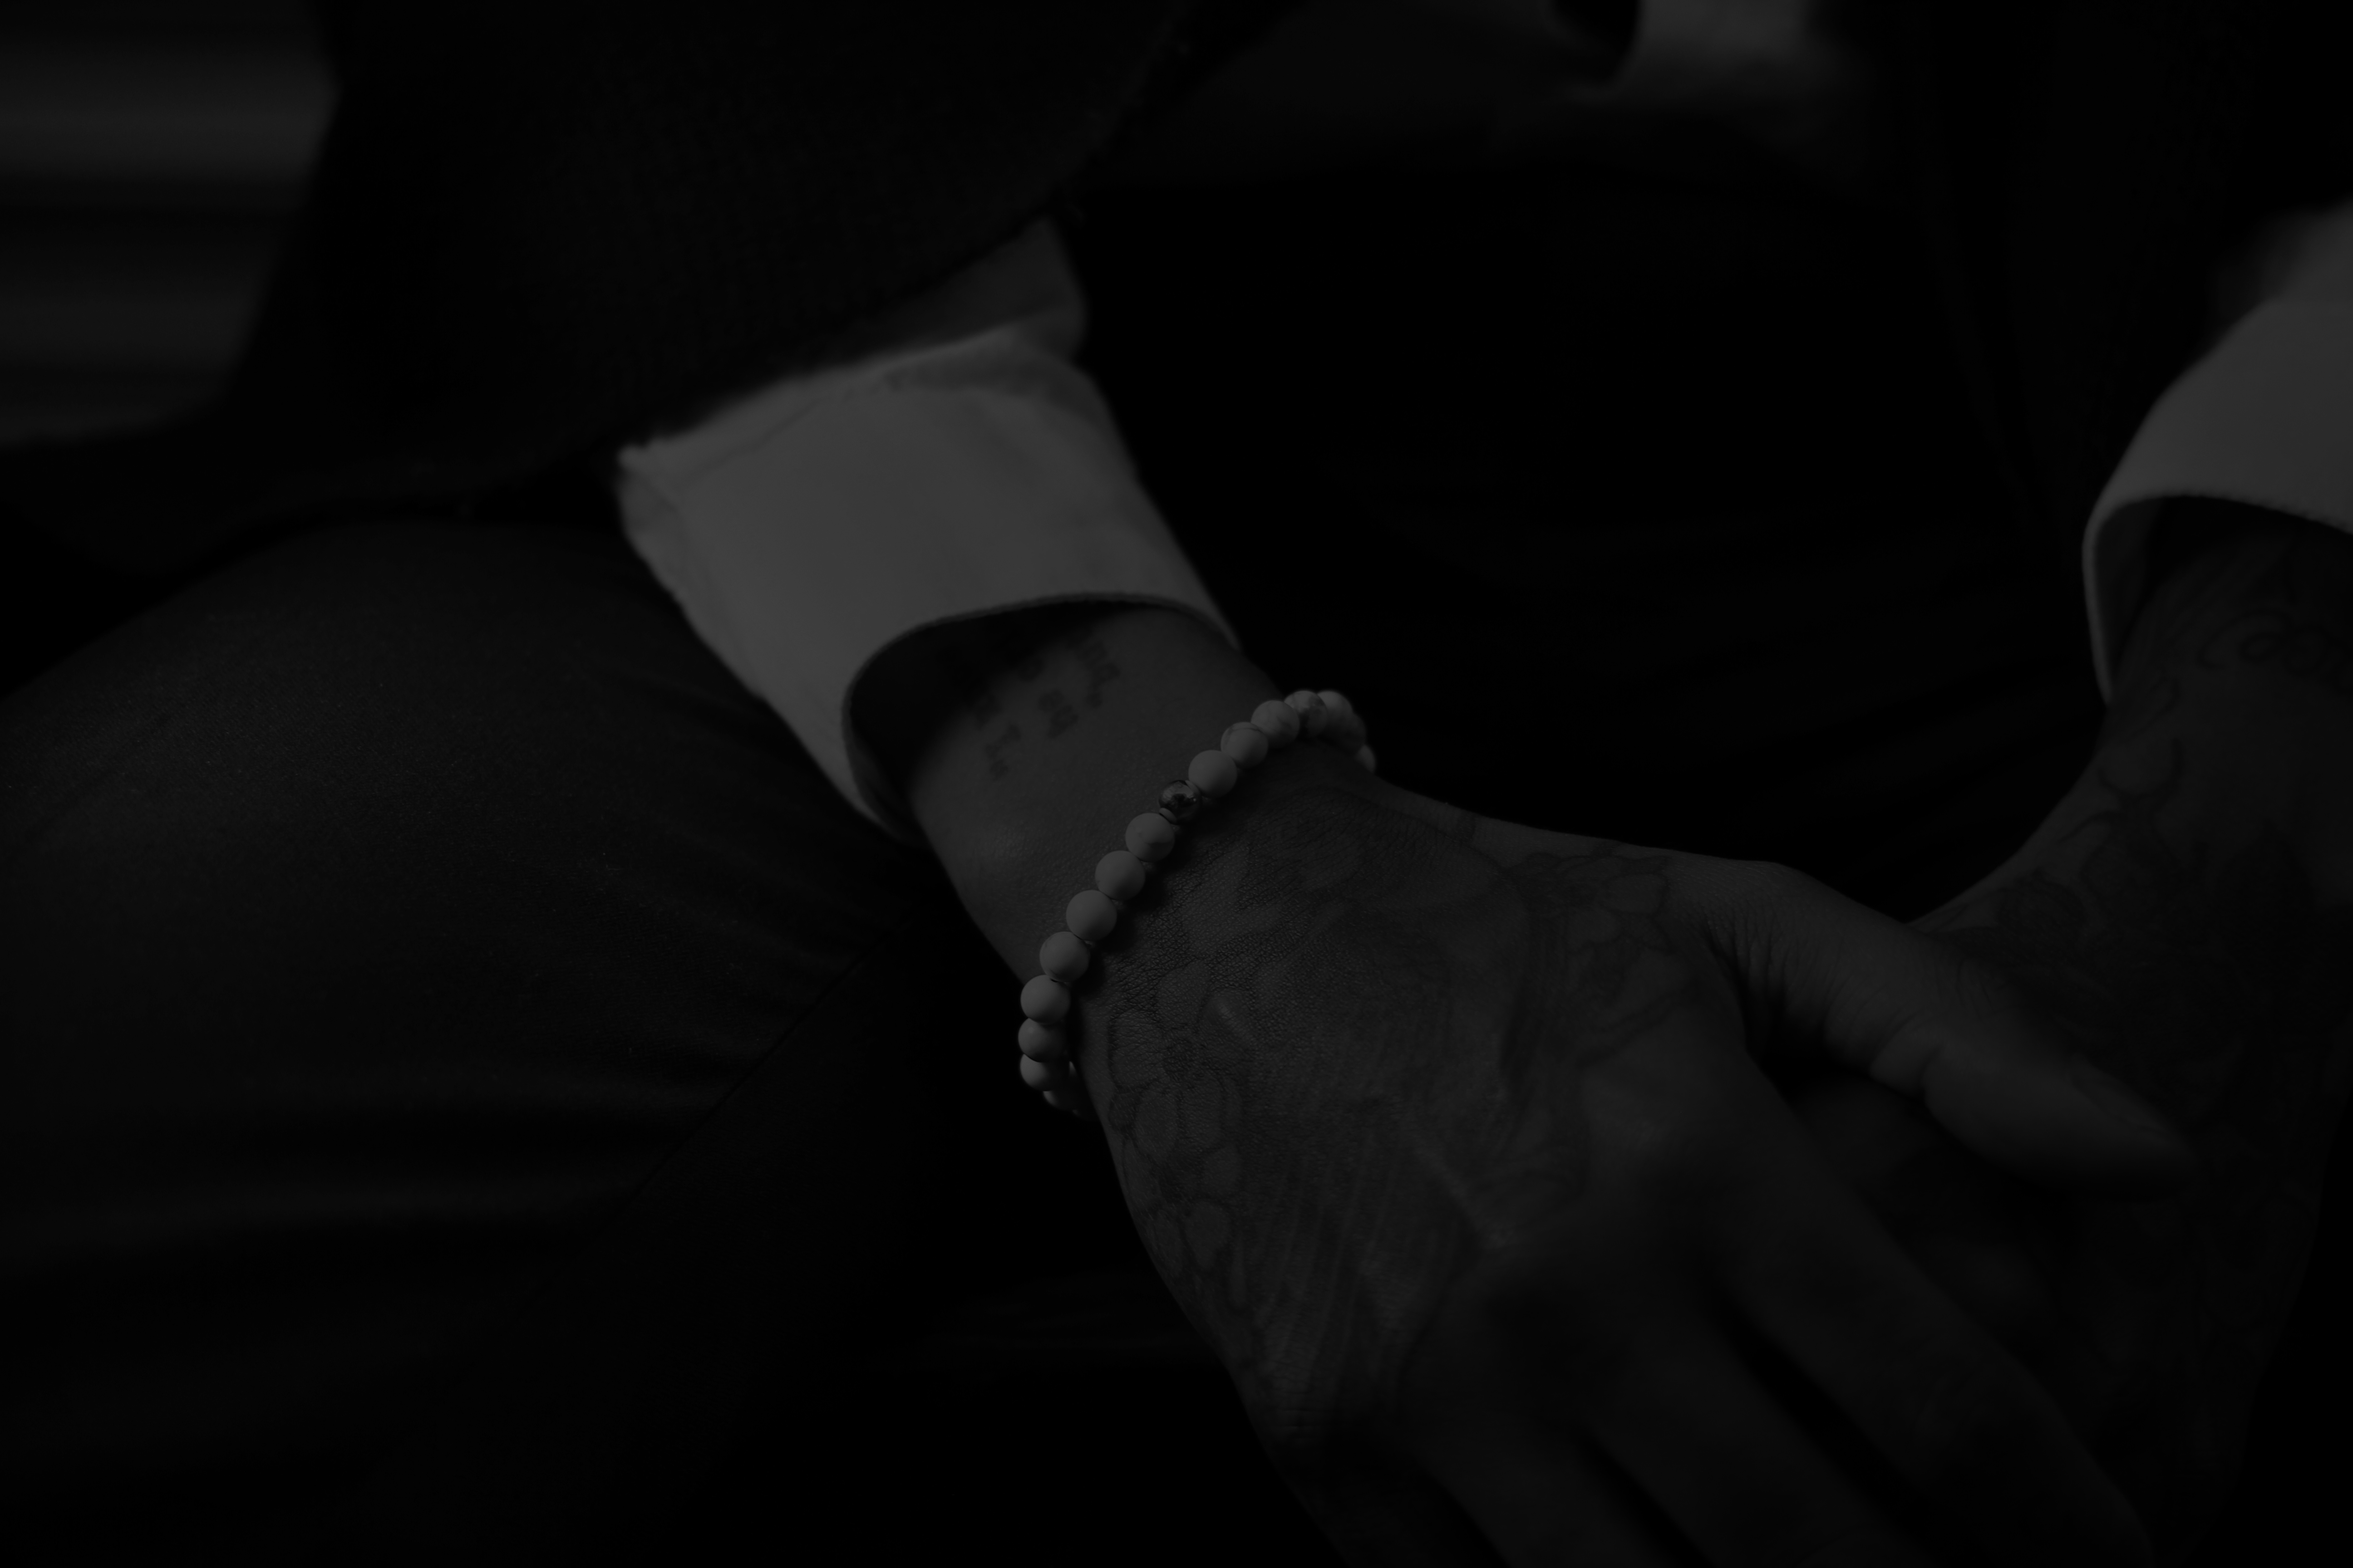
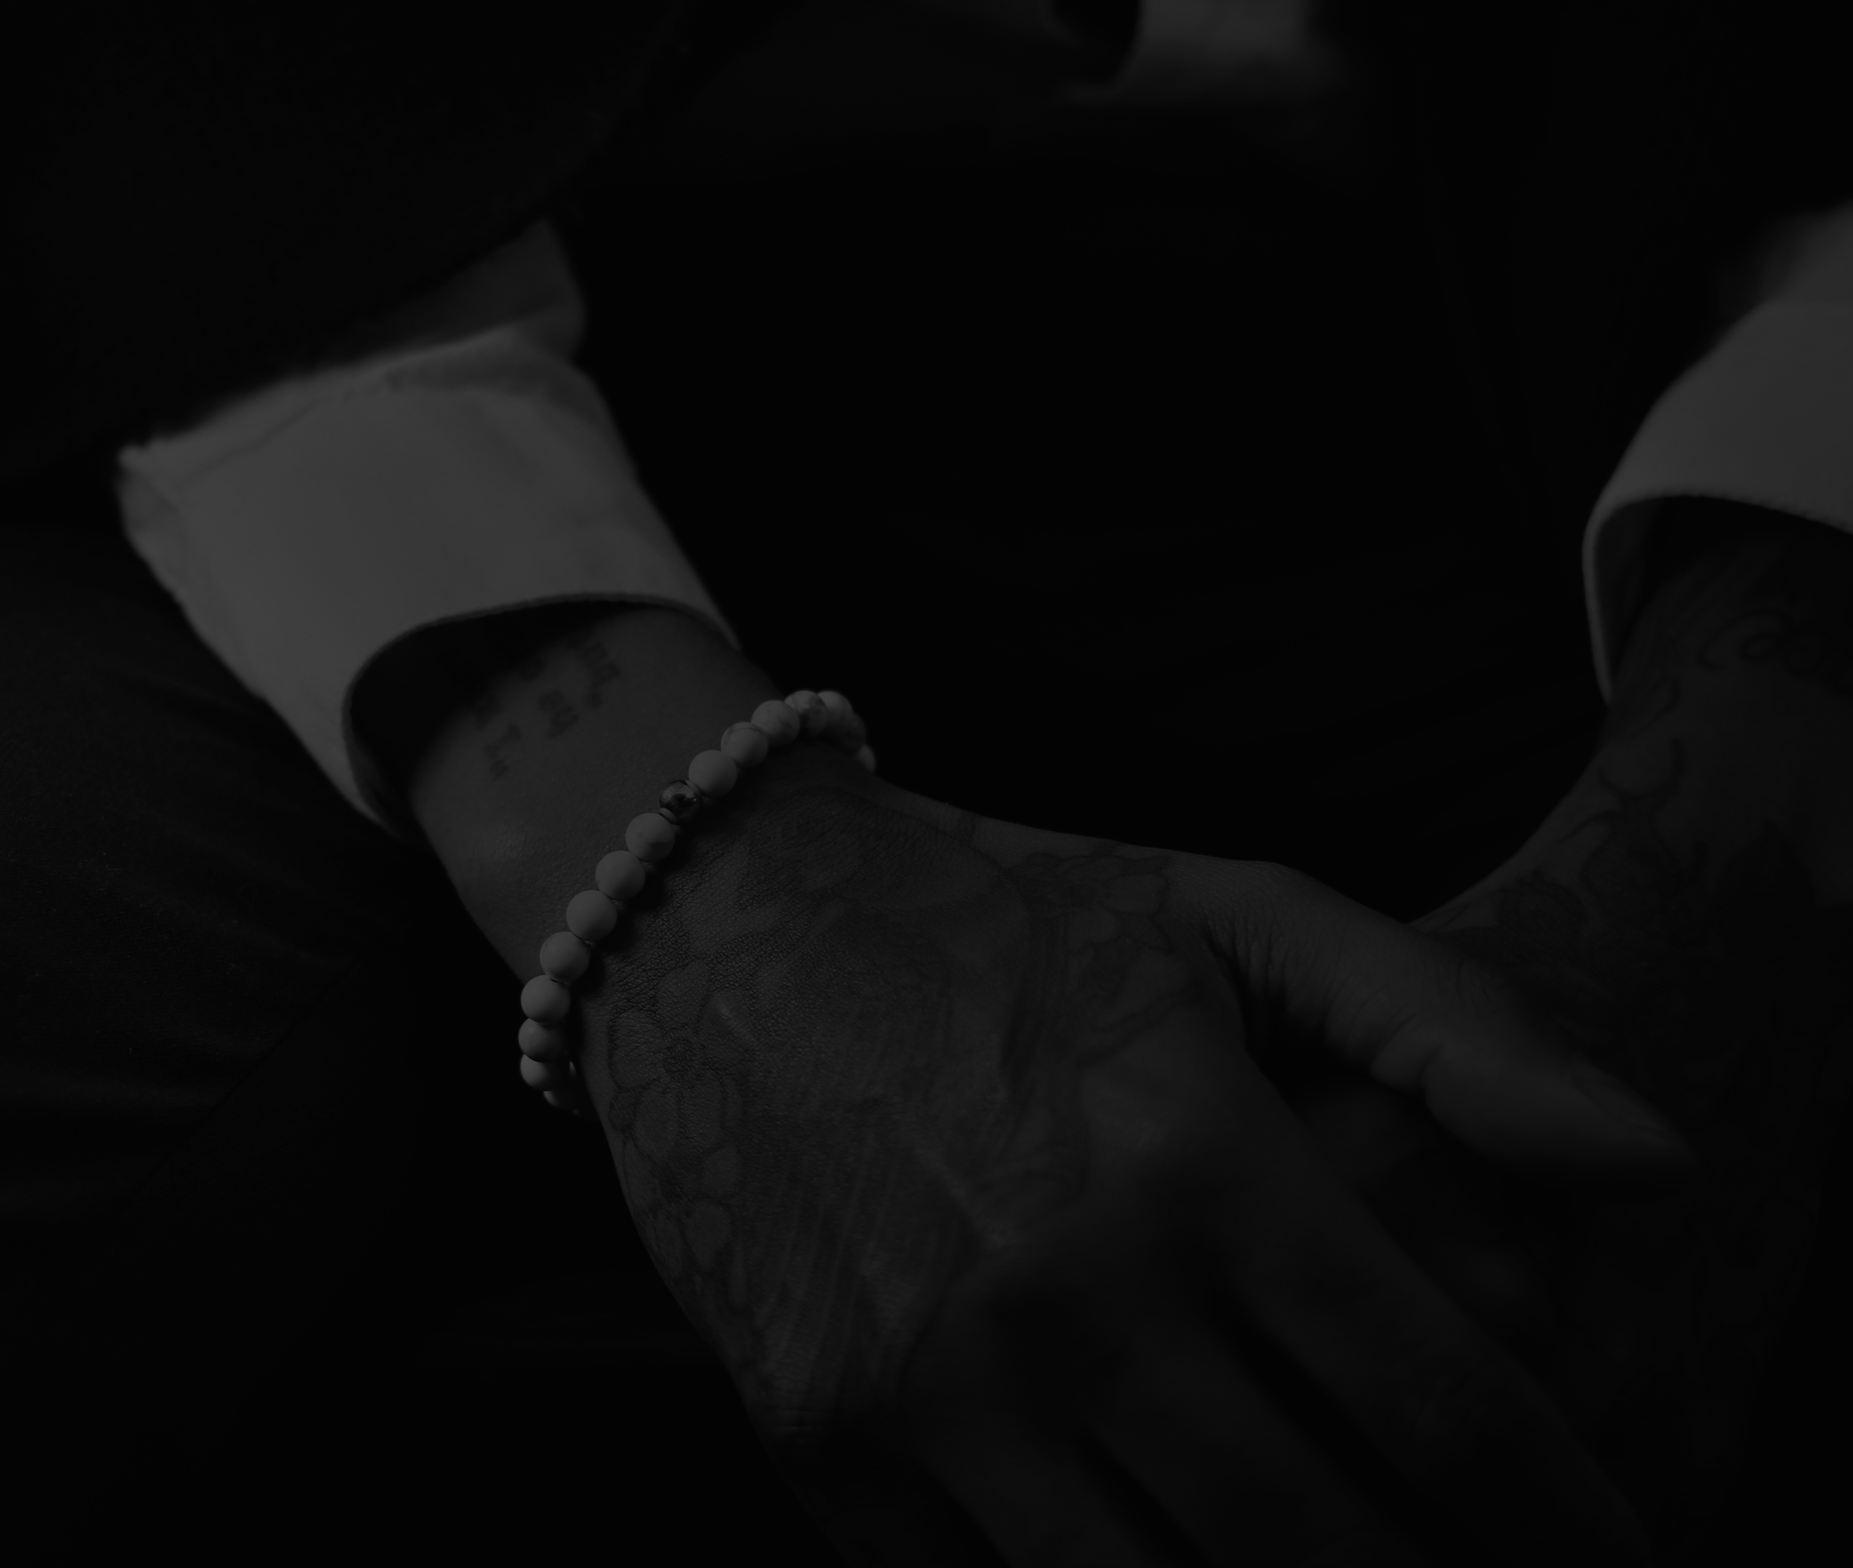
last v2 change

diff --git a/app/assets/stylesheets/main.css b/app/assets/stylesheets/main.css
@@ -69,7 +69,7 @@ a:hover {
   position: relative;
   width: 100%;
   height: 100vh;
-  background-image: url('background/Homepage2.jpg');
+  background-image: url('background/Homepage3LowRes.jpg');
   background-position: center center;
   background-repeat: no-repeat;
   background-size: cover;
